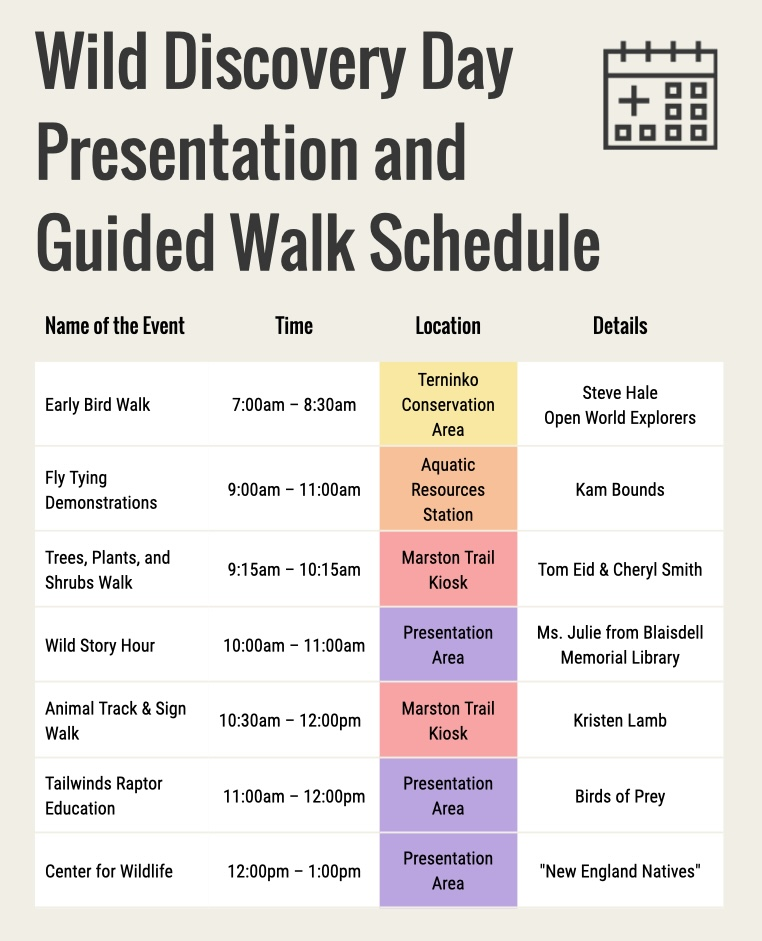
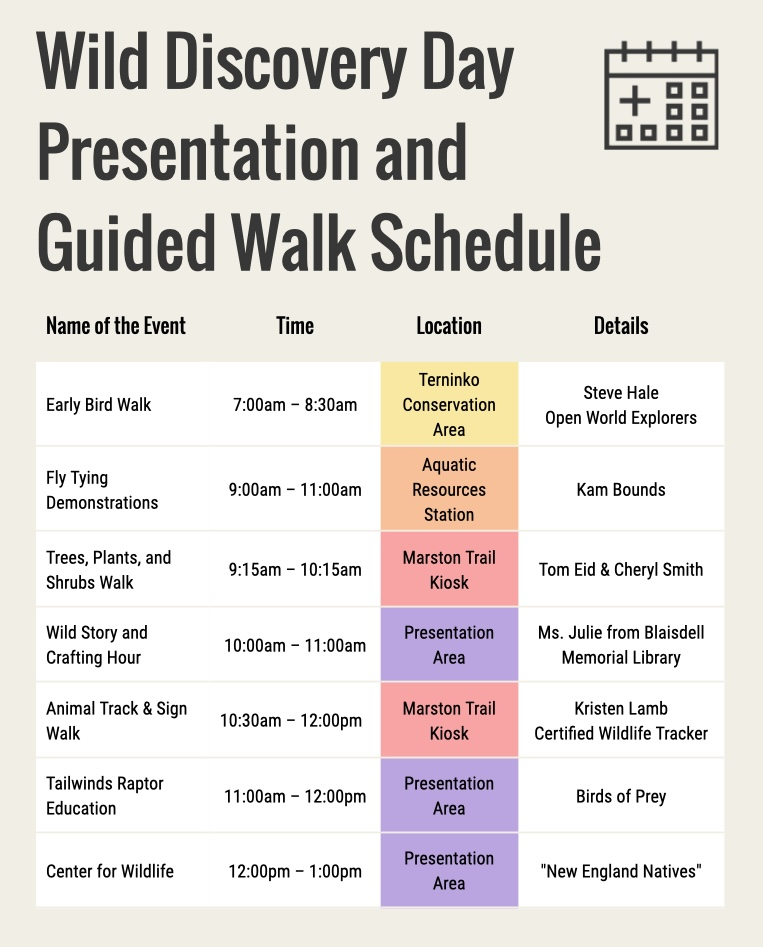
update schedule styling and info

diff --git a/schedule.html b/schedule.html
@@ -53,7 +53,8 @@
                                                 <li class="activity"  style="margin-bottom: 1.8em;">
                                                     <h3 style="margin-bottom: 0; text-shadow: 1px 1px 2px rgba(0,0,0,0.3);">BioBlitz &amp; Exploration Stations</h3>
                                                     <p style="margin-bottom: 0;"><strong>Time:</strong> 9:00 AM — 1:00 PM | <strong>Location:</strong> Marston Farm Recreation Area</a></p>
-                                                    <p class="desc" style="margin-bottom: 0;">Join us at the Marston Farm Recreation Area for a day of hands-on nature exploration and self-guided discovery! Want to learn more about what a BioBlitz is? <a href="about.html" target="_blank">Click here!</a></p>
+                                                    <p class="desc" style="margin-bottom: 0;">Join us at the Marston Farm Recreation Area for a day of hands-on nature exploration and self-guided discovery!</p>
+													<p style="margin-bottom: 0;">Want to learn more about what a BioBlitz is and how to use iNaturalist to participate? <a href="https://media.unh.edu/media/Explore+%26+ObserveA+NH+BioBlitz+iNaturalist+Training/1_e4v1rdcg" target="_blank">Click here!</a></p>
                                                     <p class="signup"><strong>Register to Let Us Know You're Coming!</strong> <a href="https://naturegroupie.org/experiences/bioblitz-wild-discovery-day" target="_blank">Click Here to Register</a></p>
                                                 </li>
 
@@ -62,7 +63,7 @@
                                                     <p style="margin-bottom: 0;"><strong>Time:</strong> 7:00 AM — 8:30 AM | <strong>Location:</strong> <a href="https://www.nottingham-nh.gov/sites/g/files/vyhlif3611/f/pages/terninko_trails_mt_2021dec.pdf" target="_blank">Terninko Conservation Area</a></p>
                                                     <p style="margin-bottom: 0;"><strong>Leader:</strong> Steve Hale, <a href="https://www.openworldexplorers.com" target="_blank">Open World Explorers</a> | <strong>Capacity:</strong> 15</p>
                                                     <p class="desc" style="margin-bottom: 0;">Open World Explorers provides birdwatching trips and classes, nature tours, and interactive presentations from Greater Boston to Northern New England.</p>
-                                                    <p class="signup"><strong>&gt;&gt; Registration is Required for this Walk:</strong> <a href="https://naturegroupie.org/experiences/bioblitz-wild-discovery-day-guided-walks" target="_blank">Click Here to Sign Up</a></p>
+                                                    <p class="signup"><strong>&gt;&gt; Registration is Required for this Walk:</strong> <a href="https://naturegroupie.org/experiences/bioblitz-wild-discovery-day-guided-walks" target="_blank">Click Here to Sign Up</a> &lt;&lt;</p>
                                                 </li>
 
                                                 <li class="activity" style="margin-bottom: 1.8em;">
@@ -70,7 +71,7 @@
                                                     <p style="margin-bottom: 0;"><strong>Time:</strong> 9:15 AM — 10:15 AM | <strong>Location:</strong> Marston Farm Trail Kiosk</p>
                                                     <p style="margin-bottom: 0;"><strong>Leader:</strong> Tom Eid & Cheryl Smith | <strong>Capacity:</strong> 15</p>
                                                     <p class="desc" style="margin-bottom: 0;">Learn about plants, trees, woody shrubs, and the invasive pests, pathogens, and diseases that affect them from local naturalist and Nottingham Trails Committee co-chair Tom Eid and Nottingham Conservation Commission member Cheryl Smith.</p>
-                                                    <p class="signup"><strong>&gt;&gt; Registration is Required for this Walk:</strong> <a href="https://naturegroupie.org/experiences/bioblitz-wild-discovery-day-guided-walks" target="_blank">Click Here to Sign Up</a></p>
+                                                    <p class="signup"><strong>&gt;&gt; Registration is Required for this Walk:</strong> <a href="https://naturegroupie.org/experiences/bioblitz-wild-discovery-day-guided-walks" target="_blank">Click Here to Sign Up</a> &lt;&lt;</p>
                                                 </li>
 
                                                 <li class="activity" style="margin-bottom: 1.8em;">
@@ -78,7 +79,7 @@
                                                     <p style="margin-bottom: 0;"><strong>Time:</strong> 10:30 AM — 12:00 PM | <strong>Location:</strong> Marston Farm Trail Kiosk</p>
                                                     <p style="margin-bottom: 0;"><strong>Leader:</strong> Kristen Lamb | <strong>Capacity:</strong> 15</p>
                                                     <p class="desc" style="margin-bottom: 0;">Join certified tracker Kristen Lamb, member of the Nottingham Conservation Commission and Executive Director of the Center for Wildlife, for a guided walk looking at various wildlife tracks and signs.</p>
-                                                    <p class="signup"><strong>&gt;&gt; Registration is Required for this Walk:</strong> <a href="https://naturegroupie.org/experiences/bioblitz-wild-discovery-day-guided-walks" target="_blank">Click Here to Sign Up</a></p>
+                                                    <p class="signup"><strong>&gt;&gt; Registration is Required for this Walk:</strong> <a href="https://naturegroupie.org/experiences/bioblitz-wild-discovery-day-guided-walks" target="_blank">Click Here to Sign Up</a> &lt;&lt;</p>
                                                 </li>
 
                                                 <li class="activity" style="margin-bottom: 1.8em;">
@@ -89,17 +90,17 @@
                                                 </li>
 
                                                 <li class="activity" style="margin-bottom: 1.8em;">
-                                                    <h3 style="margin-bottom: 0; text-shadow: 1px 1px 2px rgba(0,0,0,0.3);">Presentation: Wild Story Hour</h3>
+                                                    <h3 style="margin-bottom: 0; text-shadow: 1px 1px 2px rgba(0,0,0,0.3);">Presentation & Activity: Wild Story & Crafting Hour</h3>
                                                     <p style="margin-bottom: 0;"><strong>Time:</strong> 10:00 AM — 11:00 AM | <strong>Location:</strong> Wild Discovery Presentation Area</p>
-                                                    <p style="margin-bottom: 0;"><strong>Leader:</strong> Blaisdell Memorial Library | <strong>Capacity:</strong> 20</p>
-                                                    <p class="desc" style="margin-bottom: 0;">Join Ms. Julie of the Blaisdell Memorial Library for a delightful outdoor story time.</p>
+                                                    <p style="margin-bottom: 0;"><strong>Leader:</strong> Blaisdell Memorial Library | <strong>Capacity:</strong> 25</p>
+                                                    <p class="desc" style="margin-bottom: 0;">Join Ms. Julie of the Blaisdell Memorial Library for a delightful outdoor story time, followed by <strong>model animal scat crafting</strong> and <strong>owl pellet dissections</strong>!</p>
                                                 </li>
 
                                                 <li class="activity" style="margin-bottom: 1.8em;">
                                                     <h3 style="margin-bottom: 0; text-shadow: 1px 1px 2px rgba(0,0,0,0.3);">Presentation: Birds of Prey</h3>
                                                     <p style="margin-bottom: 0;"><strong>Time:</strong> 11:00 AM — 12:00 PM | <strong>Location:</strong> Wild Discovery Presentation Area</p>
                                                     <p style="margin-bottom: 0;"><strong>Leader:</strong> <a href="https://tailwinds.live" target="_blank">Tailwinds Raptor Education and Conservation</a> | <strong>Capacity:</strong> 30</p>
-                                                    <p class="desc" style="margin-bottom: 0;">Learn about raptors and their conservation from experts at Tailwinds.</p>
+                                                    <p class="desc" style="margin-bottom: 0;">Meet Tailwinds live raptors and learn about their their talons, wings, and other cool adaptations, along with how you can help them thrive!</p>
                                                 </li>
 
                                                 <li class="activity" style="margin-bottom: 1.8em;">
@@ -115,9 +116,9 @@
 								<section>
 									<h3>&gt;&gt; Lunch will be available for purchase from the <a href="https://www.facebook.com/p/Friends-of-Nottingham-Parks-and-Recreation-61566700213458/" target="_blank">Friends of Nottingham Parks & Recreation</a> &lt;&lt;</h3>
 								</section>
-								<section>
+								<section >
 									<p>Click the image below to download a PDF version of the schedule of activities for the Nottingham Community BioBlitz &amp; Wild Discovery Day 2026.</p>
-									<a href="images/nottingham_bioblitz_schedule.pdf" target="_blank"><img src="images/nottingham_bioblitz_schedule.jpg" alt="Schedule of Activities" class="schedule-image" /></a>
+									<p class="schedule"><a href="images/nottingham_bioblitz_schedule.pdf" target="_blank"><img src="images/nottingham_bioblitz_schedule.jpg" alt="Schedule of Activities" class="schedule-image" /></a></p>
 								</section>
 							</div>
                         </div>

diff --git a/assets/css/main.css b/assets/css/main.css
@@ -2072,3 +2072,38 @@ input, select, textarea {
 
 	}
 
+
+
+	/* Schedule */
+
+	@media screen and (min-width: 1680px) {
+
+		.schedule-image {
+			width: 80%;
+		}
+
+	}
+
+	@media screen and (max-width: 1680px) {
+
+		.schedule-image {
+			width: 80%;
+		}
+
+	}
+
+	@media screen and (max-width: 980px) {
+
+		.schedule-image {
+			width: 90%;
+		}
+
+	}
+
+	@media screen and (max-width: 736px) {
+
+		.schedule-image {
+			width: 100%;
+		}
+
+	}
